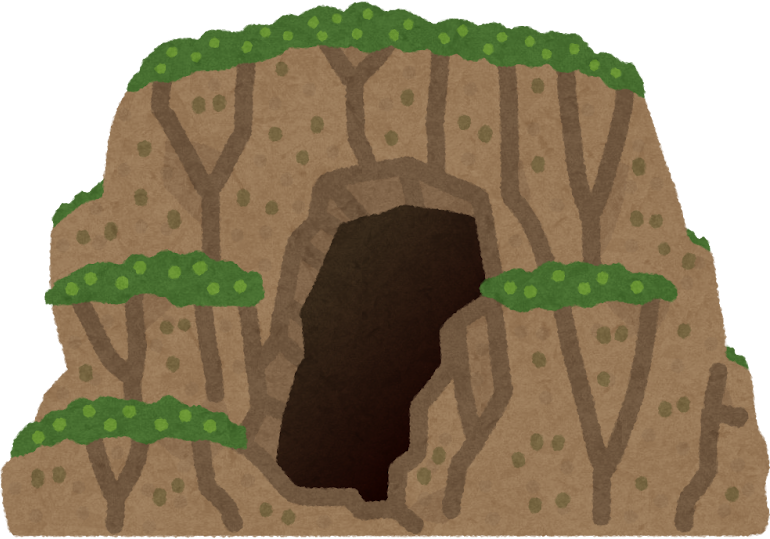
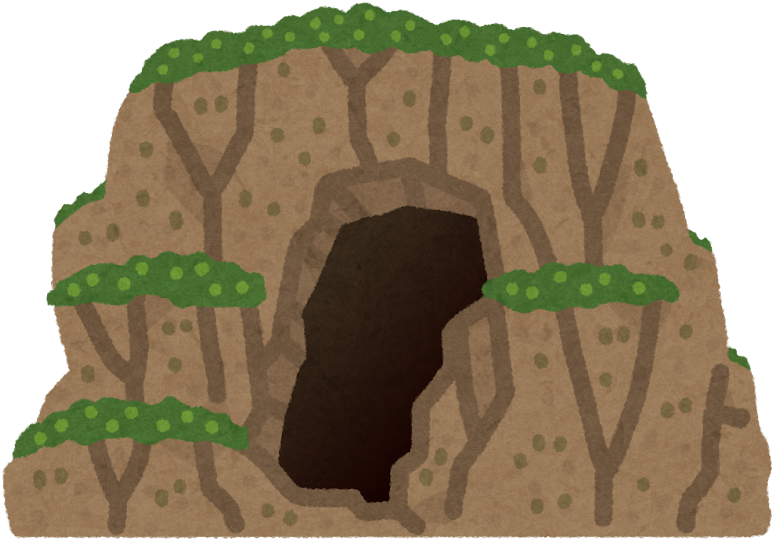
Use a clear cave cutout and speed up the next boss question.
The entrance has no colour plate, an arrow points into the mouth, and the zoom plays in front of the quiz. Hearts and MY HP are pink, Try again has no white card, and the next picture shows as soon as the hit animation ends.

diff --git a/practice/grammar/boss/index.html b/practice/grammar/boss/index.html
@@ -9,14 +9,14 @@
 <link rel="preconnect" href="https://fonts.gstatic.com" crossorigin/>
 <link href="https://fonts.googleapis.com/css2?family=Fredoka:wght@500;600;700&family=Nunito:wght@400;500;600;700&display=swap" rel="stylesheet"/>
 <link rel="stylesheet" href="../../assets/huninn.css"/>
-<link rel="stylesheet" href="grammar.css?v=55"/>
+<link rel="stylesheet" href="grammar.css?v=56"/>
 <link rel="stylesheet" href="../../assets/chrome.css?v=7" />
 <link rel="stylesheet" href="../../assets/profile.css?v=6" />
 <link rel="stylesheet" href="../../assets/account.css?v=8" />
 <script src="../../assets/supabase-public.js?v=1"></script>
 <script src="../../assets/progress-sync.js?v=3"></script>
 <script src="../../assets/place.js?v=11"></script>
-<script src="../../assets/place-ui.js?v=30"></script>
+<script src="../../assets/place-ui.js?v=31"></script>
 <script src="../../assets/profile.js?v=7"></script>
 <script src="../../assets/account.js?v=17"></script>
 </head>
@@ -35,7 +35,10 @@
   <div class="quiz-side" id="quiz-side">
   <div class="toolbar battle-tools" id="battle-tools">
     <span class="chip boss" id="q-num">1 / 12</span>
-    <button type="button" class="battle-mute" id="btn-mute" aria-pressed="false">Mute</button>
+    <button type="button" class="battle-mute" id="btn-mute" aria-pressed="false" aria-label="Mute">
+      <svg class="icon-sound" viewBox="0 0 24 24" aria-hidden="true" focusable="false"><path fill="currentColor" d="M3 9.5v5h3.2L11 19V5L6.2 9.5H3z"/><path fill="none" stroke="currentColor" stroke-width="1.8" stroke-linecap="round" d="M15 9.5a4 4 0 0 1 0 5"/><path fill="none" stroke="currentColor" stroke-width="1.8" stroke-linecap="round" d="M17.2 7a7 7 0 0 1 0 10"/></svg>
+      <svg class="icon-muted" viewBox="0 0 24 24" aria-hidden="true" focusable="false"><path fill="currentColor" d="M3 9.5v5h3.2L11 19V5L6.2 9.5H3z"/><path fill="none" stroke="currentColor" stroke-width="1.8" stroke-linecap="round" d="M15.5 9.5l5 5M20.5 9.5l-5 5"/></svg>
+    </button>
   </div>
 
   <div class="panel battle-play" id="game">
@@ -619,7 +622,32 @@
   function paintMute() {
     const on = muted();
     btnMute.setAttribute("aria-pressed", on ? "true" : "false");
-    btnMute.textContent = on ? "Sound" : "Mute";
+    btnMute.setAttribute("aria-label", on ? "Turn sound on" : "Mute");
+  }
+
+  const artCache = new Map();
+  function warmArt(src) {
+    if (!src || artCache.has(src)) return;
+    const im = new Image();
+    artCache.set(src, im);
+    im.src = src;
+  }
+  items.forEach((it) => warmArt(it.img));
+
+  function showArt(src) {
+    if (!src) {
+      artOpen.hidden = true;
+      return;
+    }
+    warmArt(src);
+    const cached = artCache.get(src);
+    const paint = () => {
+      if (!items[idx] || items[idx].img !== src) return;
+      if ((art.getAttribute("src") || "") !== src) art.src = src;
+      artOpen.hidden = !(cached.naturalWidth || art.naturalWidth);
+    };
+    if (cached.complete) paint();
+    else cached.addEventListener("load", paint, { once: true });
   }
 
   function ensureAudio() {
@@ -794,12 +822,8 @@
     if (pending) clearTimeout(pending);
     pending = null;
     qNum.textContent = (idx + 1) + " / " + items.length;
-    artOpen.hidden = true;
-    if ((art.getAttribute("src") || "") === (it.img || "") && art.complete) {
-      artOpen.hidden = !art.naturalWidth;
-    } else {
-      art.src = it.img || "";
-    }
+    showArt(it.img || "");
+    if (items[idx + 1]) warmArt(items[idx + 1].img);
     reason.hidden = true;
     reason.textContent = "";
     battleQ.classList.remove("has-reason");
@@ -850,6 +874,8 @@
     const done = document.getElementById("done");
     const actions = document.getElementById("done-actions");
     done.hidden = false;
+    done.classList.toggle("is-defeat", !won);
+    document.getElementById("done-art").classList.toggle("oni-align", !won);
     if (won) {
       document.getElementById("done-title").textContent = "Victory";
       document.getElementById("done-art").src = "../../assets/boss/victory.png";
@@ -889,7 +915,7 @@
           idx += 1;
           render();
         }
-      }, 2000);
+      }, reduce ? 0 : 720);
       return;
     }
     pose("is-lunge");

diff --git a/practice/grammar/grammar.css b/practice/grammar/grammar.css
@@ -1243,6 +1243,8 @@ body.boss-round {
   to { transform: translateY(14px) rotate(10deg); opacity: 0.4; }
 }
 .oni-shift {
+  width: fit-content;
+  max-width: 100%;
   display: flex;
   justify-content: center;
   transform: translateX(-9.3%);
@@ -1322,15 +1324,15 @@ body.boss-round {
   font-weight: 700;
   font-size: 1.2rem;
   letter-spacing: 0.04em;
-  color: #c4473a;
+  color: #ff6fa8;
   line-height: 1;
 }
 body.boss-round .lives-row .heart {
   width: 2.35rem;
   height: 2.15rem;
-  color: #e23d32;
+  color: #ff6fa8;
 }
-body.boss-round .lives-row .heart path { fill: #e23d32; }
+body.boss-round .lives-row .heart path { fill: #ff6fa8; }
 body.boss-round .lives-row .heart.lost path { fill: #c8b0b6; }
 body.boss-round .lives-row.is-hit { animation: boss-shake 0.4s ease; }
 body.boss-round .heart.is-dissolving {
@@ -1348,15 +1350,20 @@ body.boss-round .heart.is-dissolving {
 }
 .battle-mute {
   flex: none;
-  min-height: 2rem;
-  padding: 0.15rem 0.55rem;
-  border-radius: var(--pill);
+  width: 2.75rem;
+  height: 2.75rem;
+  min-height: 0;
+  padding: 0;
+  border-radius: 50%;
   background: var(--navy);
   color: #fff;
-  font-family: var(--font-display);
-  font-weight: 700;
-  font-size: 0.85rem;
+  display: grid;
+  place-items: center;
 }
+.battle-mute svg { width: 1.45rem; height: 1.45rem; }
+.battle-mute .icon-muted { display: none; }
+.battle-mute[aria-pressed="true"] .icon-sound { display: none; }
+.battle-mute[aria-pressed="true"] .icon-muted { display: block; }
 body.boss-round .battle-play {
   flex: 1;
   min-height: 0;
@@ -1375,21 +1382,26 @@ body.boss-round .battle-play {
   gap: 0.45rem;
 }
 .battle-art {
-  position: relative;
   flex: 1 1 auto;
   width: 100%;
   min-height: 0;
   padding: 0;
-  border-radius: 16px;
+  border-radius: 0;
   background: transparent;
-  overflow: hidden;
+  display: flex;
+  align-items: center;
+  justify-content: center;
 }
 .battle-art img {
-  position: absolute;
-  inset: 0;
-  width: 100%;
+  position: static;
+  min-width: 0;
+  min-height: 0;
+  width: auto;
   height: 100%;
+  max-width: 100%;
+  max-height: 100%;
   object-fit: contain;
+  border-radius: 1.35rem;
 }
 .battle-copy { flex: none; width: 100%; min-width: 0; }
 body.boss-round .prompt {
@@ -1468,6 +1480,11 @@ body.boss-round .choice.spent {
   max-height: 34vh;
   object-fit: contain;
 }
+.battle-end.is-defeat {
+  background: transparent;
+  box-shadow: none;
+}
+.battle-end img.oni-align { transform: translateX(-9.3%); }
 .battle-end h2 {
   margin: 0;
   font-family: var(--font-display);

diff --git a/assets/site.css b/assets/site.css
@@ -1556,6 +1556,12 @@ html[data-view="home"] .place-shell { display: none; }
   height: 100%;
   border: 0;
   background: #fcf0d8;
+  opacity: 0;
+  pointer-events: none;
+}
+body.boss-quiz-open .boss-quiz-frame {
+  opacity: 1;
+  pointer-events: auto;
 }
 body.boss-quiz-open #account-link,
 body.boss-quiz-open .account-link-fab {
@@ -1566,11 +1572,12 @@ body.boss-quiz-open .account-link-fab {
   inset: 0;
   z-index: 90;
   display: none;
-  background: var(--bg);
+  background: transparent;
   overflow: hidden;
 }
 .boss-gate.open {
   display: block;
+  z-index: 1100;
   opacity: 1;
   transition: opacity 1.5s ease;
 }
@@ -1600,8 +1607,8 @@ body.boss-quiz-open .account-link-fab {
 }
 .boss-gate-frame {
   position: relative;
-  width: min(92vw, calc((100dvh - 3.2rem - 30vh) * 770 / 539));
-  aspect-ratio: 770 / 539;
+  width: min(92vw, calc((100dvh - 3.2rem - 30vh) * 774 / 541));
+  aspect-ratio: 774 / 541;
 }
 .boss-gate-cave {
   position: absolute;
@@ -1609,9 +1616,10 @@ body.boss-quiz-open .account-link-fab {
   width: 100%;
   height: 100%;
   object-fit: fill;
+  background: transparent;
   opacity: 1;
   transform: scale(1);
-  transform-origin: 48.7% 64%;
+  transform-origin: 48.7% 64.2%;
   pointer-events: none;
 }
 .boss-gate-mouth {
@@ -1633,8 +1641,8 @@ body.boss-quiz-open .account-link-fab {
   z-index: 6;
   left: 48.7%;
   top: 64.2%;
-  width: 5rem;
-  height: 3.5rem;
+  width: 2.8rem;
+  height: 4.6rem;
   display: block;
   padding: 0;
   border: 0;

diff --git a/assets/place-ui.js b/assets/place-ui.js
@@ -240,10 +240,10 @@
     gate.setAttribute('aria-labelledby', 'boss-gate-title');
     gate.innerHTML = '<a class="boss-gate-back" href="' + root + '">← Back to packs</a>'
       + '<div class="boss-gate-scene"><div class="boss-gate-frame">'
-      + '<img class="boss-gate-cave" alt="" src="' + root + 'assets/boss/cave.png">'
+      + '<img class="boss-gate-cave" alt="" src="' + root + 'assets/boss/cave.png?v=3">'
       + '<button type="button" class="boss-gate-mouth" data-ready aria-label="Enter the cave"></button>'
       + '<button type="button" class="boss-gate-arrow" data-ready aria-label="Enter the cave">'
-      + '<svg viewBox="0 0 80 56" aria-hidden="true" focusable="false"><path d="M10 50 L40 4 L70 50"/><path d="M10 50 L40 4 L70 50"/></svg>'
+      + '<svg viewBox="0 0 64 96" aria-hidden="true" focusable="false"><path d="M32 90 V30 M12 46 L32 6 L52 46"/><path d="M32 90 V30 M12 46 L32 6 L52 46"/></svg>'
       + '</button></div></div>'
       + '<div class="boss-gate-card">'
       + '<h2 id="boss-gate-title">Ready for the boss?</h2>'

diff --git a/index.html b/index.html
@@ -10,7 +10,7 @@
   <link href="https://fonts.googleapis.com/css2?family=Fredoka:wght@500;600;700&family=Nunito:wght@400;500;600;700&display=swap" rel="stylesheet" />
 <link rel="stylesheet" href="assets/huninn.css"/>
   <link rel="icon" href="assets/favicon.png?v=2" />
-  <link rel="stylesheet" href="assets/site.css?v=67" />
+  <link rel="stylesheet" href="assets/site.css?v=68" />
   <script>
   (function () {
     var mode = 'guide';
@@ -355,7 +355,7 @@
   <script src="assets/img-frame.js?v=13"></script>
   <script src="assets/site-pages.js?v=8"></script>
   <script src="assets/resources.js?v=2"></script>
-  <script src="assets/place-ui.js?v=30"></script>
+  <script src="assets/place-ui.js?v=31"></script>
   <script src="practice/data/unit1.js"></script>
   <script src="practice/data/unit2.js"></script>
   <script src="practice/data/unit3.js"></script>

diff --git a/practice/grammar/badges/index.html b/practice/grammar/badges/index.html
@@ -10,7 +10,7 @@
   <link href="https://fonts.googleapis.com/css2?family=Fredoka:wght@500;600;700&family=Nunito:wght@400;500;600;700&display=swap" rel="stylesheet" />
 <link rel="stylesheet" href="../../assets/huninn.css"/>
   <link rel="icon" href="../../assets/favicon.png?v=2" />
-  <link rel="stylesheet" href="assets/site.css?v=67" />
+  <link rel="stylesheet" href="assets/site.css?v=68" />
 <link rel="stylesheet" href="../../assets/account.css?v=8" />
 <script src="../../assets/supabase-public.js?v=1"></script>
 <script src="../../assets/progress-sync.js?v=3"></script>

diff --git a/account/index.html b/account/index.html
@@ -10,7 +10,7 @@
   <link href="https://fonts.googleapis.com/css2?family=Fredoka:wght@500;600;700&family=Nunito:wght@400;500;600;700&display=swap" rel="stylesheet" />
 <link rel="stylesheet" href="assets/huninn.css"/>
   <link rel="icon" href="assets/favicon.png?v=2" />
-  <link rel="stylesheet" href="assets/site.css?v=67" />
+  <link rel="stylesheet" href="assets/site.css?v=68" />
   <link rel="stylesheet" href="assets/profile.css?v=6" />
   <link rel="stylesheet" href="assets/account.css?v=8" />
   <script src="assets/supabase-public.js?v=1"></script>

diff --git a/badges/index.html b/badges/index.html
@@ -10,7 +10,7 @@
   <link href="https://fonts.googleapis.com/css2?family=Fredoka:wght@500;600;700&family=Nunito:wght@400;500;600;700&display=swap" rel="stylesheet" />
 <link rel="stylesheet" href="assets/huninn.css"/>
   <link rel="icon" href="assets/favicon.png?v=2" />
-  <link rel="stylesheet" href="assets/site.css?v=67" />
+  <link rel="stylesheet" href="assets/site.css?v=68" />
   <link rel="stylesheet" href="assets/profile.css?v=6" />
 <link rel="stylesheet" href="assets/account.css?v=8" />
 <script src="assets/supabase-public.js?v=1"></script>

diff --git a/profile/index.html b/profile/index.html
@@ -10,7 +10,7 @@
   <link href="https://fonts.googleapis.com/css2?family=Fredoka:wght@500;600;700&family=Nunito:wght@400;500;600;700&display=swap" rel="stylesheet" />
 <link rel="stylesheet" href="assets/huninn.css"/>
   <link rel="icon" href="assets/favicon.png?v=2" />
-  <link rel="stylesheet" href="assets/site.css?v=67" />
+  <link rel="stylesheet" href="assets/site.css?v=68" />
   <link rel="stylesheet" href="assets/profile.css?v=6" />
   <link rel="stylesheet" href="assets/account.css?v=8" />
   <script>

diff --git a/payment-return/index.html b/payment-return/index.html
@@ -6,7 +6,7 @@
   <meta charset="UTF-8" />
   <meta name="viewport" content="width=device-width, initial-scale=1" />
   <title>Test payment · Play and Learn Club</title>
-  <link rel="stylesheet" href="assets/site.css?v=67" />
+  <link rel="stylesheet" href="assets/site.css?v=68" />
   <script src="assets/supabase-public.js?v=1"></script>
   <script src="assets/progress-sync.js?v=3"></script>
   <script src="assets/account.js?v=17"></script>

diff --git a/practice/grammar/grammar-hub/index.html b/practice/grammar/grammar-hub/index.html
@@ -16,7 +16,7 @@
 <script src="../../assets/supabase-public.js?v=1"></script>
 <script src="../../assets/progress-sync.js?v=3"></script>
 <script src="../../assets/place.js?v=11"></script>
-<script src="../../assets/place-ui.js?v=30"></script>
+<script src="../../assets/place-ui.js?v=31"></script>
 <script src="../../assets/profile.js?v=7"></script>
 <script src="../../assets/account.js?v=17"></script>
 </head>

diff --git a/practice/grammar/practice-entry/index.html b/practice/grammar/practice-entry/index.html
@@ -16,7 +16,7 @@
 <script src="../../assets/supabase-public.js?v=1"></script>
 <script src="../../assets/progress-sync.js?v=3"></script>
 <script src="../../assets/place.js?v=11"></script>
-<script src="../../assets/place-ui.js?v=30"></script>
+<script src="../../assets/place-ui.js?v=31"></script>
 <script src="../../assets/profile.js?v=7"></script>
 <script src="../../assets/account.js?v=17"></script>
 </head>
